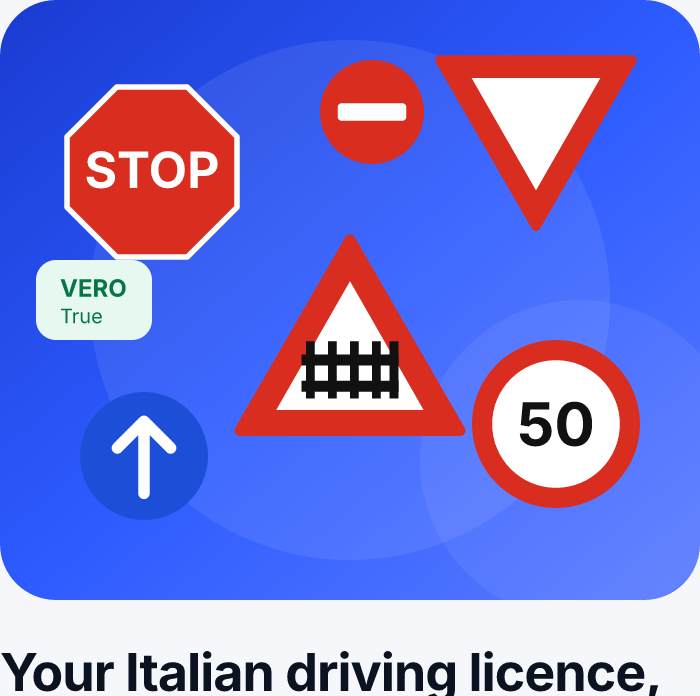
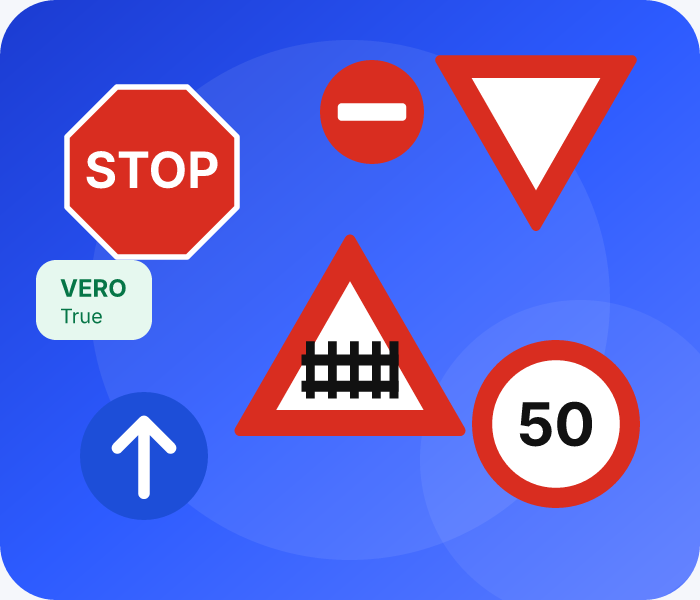
fix(welcome): exact pixel-perfect fidelity matching Figma mockup

diff --git a/src/screens/auth/WelcomeScreen.tsx b/src/screens/auth/WelcomeScreen.tsx
@@ -7,6 +7,7 @@ import {
   Image,
   ScrollView,
   useWindowDimensions,
+  Platform,
 } from 'react-native';
 import { useSafeAreaInsets } from 'react-native-safe-area-context';
 import { useNavigation } from '@react-navigation/native';
@@ -23,21 +24,12 @@ export const WelcomeScreen: React.FC = () => {
   const { width, height } = useWindowDimensions();
   const { colors, isDark } = useTheme();
 
-  // Mockup is 780×1688px at 2x = 390×844pt (iPhone 14 frame)
-  // All measurements below are derived from pixel analysis of the mockup
-  const horizontalPadding = 20;
-  const contentWidth = width - horizontalPadding * 2; // ~350pt on iPhone 14
-
-  // Hero card: 696px tall / 700px wide at 2x = 348pt / 350pt
-  const cardWidth = Math.min(contentWidth, 350);
-  const cardAspect = 696 / 700; // almost square
-  let cardHeight = cardWidth * cardAspect;
-
-  // On very short screens, cap and re-derive width
-  const maxCardHeight = height * 0.42;
-  if (cardHeight > maxCardHeight) {
-    cardHeight = maxCardHeight;
-  }
+  // Mockup reference frame: 390 x 844 pt (780 x 1688 px @2x)
+  // Card is exactly 700 x 600 px -> 350 x 300 pt (Aspect ratio: 7 / 6 = 1.1667)
+  const horizontalMargin = 20;
+  const contentWidth = Math.min(width - horizontalMargin * 2, 360);
+  const cardWidth = contentWidth;
+  const cardHeight = cardWidth * (600 / 700);
 
   const heroImage = isDark
     ? require('../../../assets/mockup-art/welcome-hero-dark.png')
@@ -50,29 +42,32 @@ export const WelcomeScreen: React.FC = () => {
           styles.scrollContent,
           {
             paddingTop: Math.max(insets.top, 16) + 4,
-            paddingBottom: Math.max(insets.bottom, 16),
+            paddingBottom: Math.max(insets.bottom, 16) + 8,
           },
         ]}
         showsVerticalScrollIndicator={false}
         bounces={false}
       >
-        {/* Hero Card (road signs illustration) */}
-        <View style={styles.topContainer}>
+        <View style={styles.mainContent}>
+          {/* Hero Road Signs Card */}
           <View
             style={[
               styles.heroCardContainer,
-              { width: cardWidth, height: cardHeight },
+              {
+                width: cardWidth,
+                height: cardHeight,
+              },
             ]}
           >
             <Image
               source={heroImage}
               style={styles.heroImage}
-              resizeMode="cover"
+              resizeMode="contain"
             />
           </View>
 
-          {/* Title + Subtitle */}
-          <View style={[styles.textBlock, { maxWidth: cardWidth }]}>
+          {/* Title & Subtitle */}
+          <View style={[styles.textBlock, { width: contentWidth }]}>
             <Text
               style={[
                 styles.title,
@@ -81,90 +76,94 @@ export const WelcomeScreen: React.FC = () => {
             >
               Your Italian driving licence,{'\n'}in your language
             </Text>
+
             <Text
               style={[
                 styles.subtitle,
                 { color: isDark ? '#94A3B8' : '#475569' },
               ]}
             >
-              Official ministerial quizzes, video lessons and{'\n'}audio
-              explanations in Bangla and English.
+              Official ministerial quizzes, video lessons and audio explanations in Bangla and English.
             </Text>
+          </View>
+
+          {/* Auth Action Buttons */}
+          <View style={[styles.actionContainer, { width: contentWidth }]}>
+            {/* Continue with Google */}
+            <TouchableOpacity
+              style={[
+                styles.authButton,
+                {
+                  backgroundColor: isDark ? '#131A2A' : '#FFFFFF',
+                  borderColor: isDark ? '#1E2740' : '#E2E8F0',
+                  borderWidth: 1,
+                },
+              ]}
+              activeOpacity={0.85}
+              accessibilityRole="button"
+              accessibilityLabel="Continue with Google"
+              onPress={() => navigation.navigate('Language')}
+            >
+              <Image
+                source={require('../../../assets/mockup-art/google-g.png')}
+                style={styles.googleGIcon}
+                resizeMode="contain"
+              />
+              <Text
+                style={[
+                  styles.authButtonText,
+                  { color: isDark ? '#F2F4F8' : '#0B1220' },
+                ]}
+              >
+                Continue with Google
+              </Text>
+            </TouchableOpacity>
+
+            {/* Continue with Apple */}
+            <TouchableOpacity
+              style={[
+                styles.authButton,
+                {
+                  backgroundColor: isDark ? '#F2F4F8' : '#0B1220',
+                  borderColor: isDark ? '#F2F4F8' : '#0B1220',
+                  borderWidth: 1,
+                },
+              ]}
+              activeOpacity={0.85}
+              accessibilityRole="button"
+              accessibilityLabel="Continue with Apple"
+              onPress={() => navigation.navigate('Language')}
+            >
+              <Ionicons
+                name="logo-apple"
+                size={22}
+                color={isDark ? '#0B1220' : '#FFFFFF'}
+                style={styles.appleIcon}
+              />
+              <Text
+                style={[
+                  styles.authButtonText,
+                  { color: isDark ? '#0B1220' : '#FFFFFF' },
+                ]}
+              >
+                Continue with Apple
+              </Text>
+            </TouchableOpacity>
+
+            {/* Use phone number */}
+            <TouchableOpacity
+              style={styles.phoneButton}
+              activeOpacity={0.7}
+              accessibilityRole="button"
+              accessibilityLabel="Use phone number"
+              onPress={() => navigation.navigate('Language')}
+            >
+              <Text style={styles.phoneButtonText}>Use phone number</Text>
+            </TouchableOpacity>
           </View>
         </View>
 
-        {/* Auth Buttons + Phone Link */}
-        <View style={[styles.actionContainer, { maxWidth: cardWidth }]}>
-          {/* Continue with Google — 43pt height */}
-          <TouchableOpacity
-            style={[
-              styles.googleButton,
-              {
-                backgroundColor: isDark ? '#131A2A' : '#FFFFFF',
-                borderColor: isDark ? '#1E2740' : '#E2E8F0',
-              },
-            ]}
-            activeOpacity={0.85}
-            accessibilityRole="button"
-            accessibilityLabel="Continue with Google"
-            onPress={() => navigation.navigate('Language')}
-          >
-            <Text style={[styles.googleG, { color: '#4285F4' }]}>G</Text>
-            <Text
-              style={[
-                styles.authButtonText,
-                { color: isDark ? '#F2F4F8' : '#0B1220' },
-              ]}
-            >
-              Continue with Google
-            </Text>
-          </TouchableOpacity>
-
-          {/* Continue with Apple — 47pt height */}
-          <TouchableOpacity
-            style={[
-              styles.appleButton,
-              {
-                backgroundColor: isDark ? '#F2F4F8' : '#0B1220',
-              },
-            ]}
-            activeOpacity={0.85}
-            accessibilityRole="button"
-            accessibilityLabel="Continue with Apple"
-            onPress={() => navigation.navigate('Language')}
-          >
-            <Ionicons
-              name="logo-apple"
-              size={20}
-              color={isDark ? '#0B1220' : '#FFFFFF'}
-              style={styles.appleIcon}
-            />
-            <Text
-              style={[
-                styles.authButtonText,
-                { color: isDark ? '#0B1220' : '#FFFFFF' },
-              ]}
-            >
-              Continue with Apple
-            </Text>
-          </TouchableOpacity>
-
-          {/* Use phone number */}
-          <TouchableOpacity
-            style={styles.phoneButton}
-            activeOpacity={0.7}
-            accessibilityRole="button"
-            accessibilityLabel="Use phone number"
-            onPress={() => navigation.navigate('Language')}
-          >
-            <Text style={styles.phoneButtonText}>Use phone number</Text>
-          </TouchableOpacity>
-        </View>
-
-        {/* Spacer to push footer down */}
-        <View style={styles.spacer} />
-
-        {/* Footer — QR code login */}
+        {/* Footer / QR code login */}
         <TouchableOpacity
           style={styles.footerContainer}
           activeOpacity={0.75}
@@ -172,15 +171,18 @@ export const WelcomeScreen: React.FC = () => {
           accessibilityLabel="Scan QR code to log in"
           onPress={() => navigation.replace('MainTabs')}
         >
-          <Ionicons
-            name="qr-code-outline"
-            size={16}
-            color={isDark ? '#475569' : '#94A3B8'}
+          <Image
+            source={require('../../../assets/mockup-art/qr-icon.png')}
+            style={[
+              styles.qrIcon,
+              { tintColor: isDark ? '#475569' : '#8A96A6' },
+            ]}
+            resizeMode="contain"
           />
           <Text
             style={[
               styles.footerText,
-              { color: isDark ? '#475569' : '#94A3B8' },
+              { color: isDark ? '#475569' : '#8A96A6' },
             ]}
           >
             Studying on another device? Scan to log in
@@ -197,15 +199,16 @@ const styles = StyleSheet.create({
   },
   scrollContent: {
     flexGrow: 1,
+    justifyContent: 'space-between',
     alignItems: 'center',
     paddingHorizontal: 20,
   },
-  topContainer: {
+  mainContent: {
     alignItems: 'center',
     width: '100%',
   },
   heroCardContainer: {
-    borderRadius: 20,
+    borderRadius: 24,
     overflow: 'hidden',
     alignSelf: 'center',
     marginBottom: 24,
@@ -213,53 +216,48 @@ const styles = StyleSheet.create({
   heroImage: {
     width: '100%',
     height: '100%',
+    borderRadius: 24,
   },
   textBlock: {
     alignSelf: 'center',
-    width: '100%',
-    marginBottom: 32,
+    marginBottom: 24,
   },
   title: {
-    fontSize: 26,
+    fontSize: 27,
     fontWeight: '800',
-    letterSpacing: -0.5,
-    lineHeight: 33,
+    letterSpacing: -0.6,
+    lineHeight: 34,
     marginBottom: 10,
+    textAlign: 'left',
   },
   subtitle: {
     fontSize: 15,
     fontWeight: '400',
     lineHeight: 22,
-    letterSpacing: -0.1,
+    letterSpacing: -0.2,
+    textAlign: 'left',
   },
   actionContainer: {
-    width: '100%',
-    alignSelf: 'center',
     gap: 12,
+    alignSelf: 'center',
+    marginBottom: 16,
   },
-  googleButton: {
-    height: 48,
-    borderRadius: 14,
-    borderWidth: 1,
+  authButton: {
+    height: 52,
+    borderRadius: 16,
     flexDirection: 'row',
     alignItems: 'center',
     justifyContent: 'center',
-    gap: 8,
+    paddingHorizontal: 16,
   },
-  googleG: {
-    fontSize: 18,
-    fontWeight: '700',
-  },
-  appleButton: {
-    height: 50,
-    borderRadius: 14,
-    flexDirection: 'row',
-    alignItems: 'center',
-    justifyContent: 'center',
-    gap: 8,
+  googleGIcon: {
+    width: 20,
+    height: 20,
+    marginRight: 10,
   },
   appleIcon: {
-    marginTop: -1,
+    marginRight: 8,
+    marginTop: -2,
   },
   authButtonText: {
     fontSize: 16,
@@ -269,17 +267,13 @@ const styles = StyleSheet.create({
   phoneButton: {
     alignItems: 'center',
     justifyContent: 'center',
-    paddingVertical: 12,
+    paddingVertical: 10,
   },
   phoneButtonText: {
-    color: '#3B82F6',
+    color: '#2563EB',
     fontSize: 15,
     fontWeight: '600',
     letterSpacing: -0.2,
-  },
-  spacer: {
-    flex: 1,
-    minHeight: 40,
   },
   footerContainer: {
     flexDirection: 'row',
@@ -287,6 +281,11 @@ const styles = StyleSheet.create({
     justifyContent: 'center',
     gap: 8,
     paddingVertical: 12,
+    alignSelf: 'center',
+  },
+  qrIcon: {
+    width: 15,
+    height: 15,
   },
   footerText: {
     fontSize: 13,
